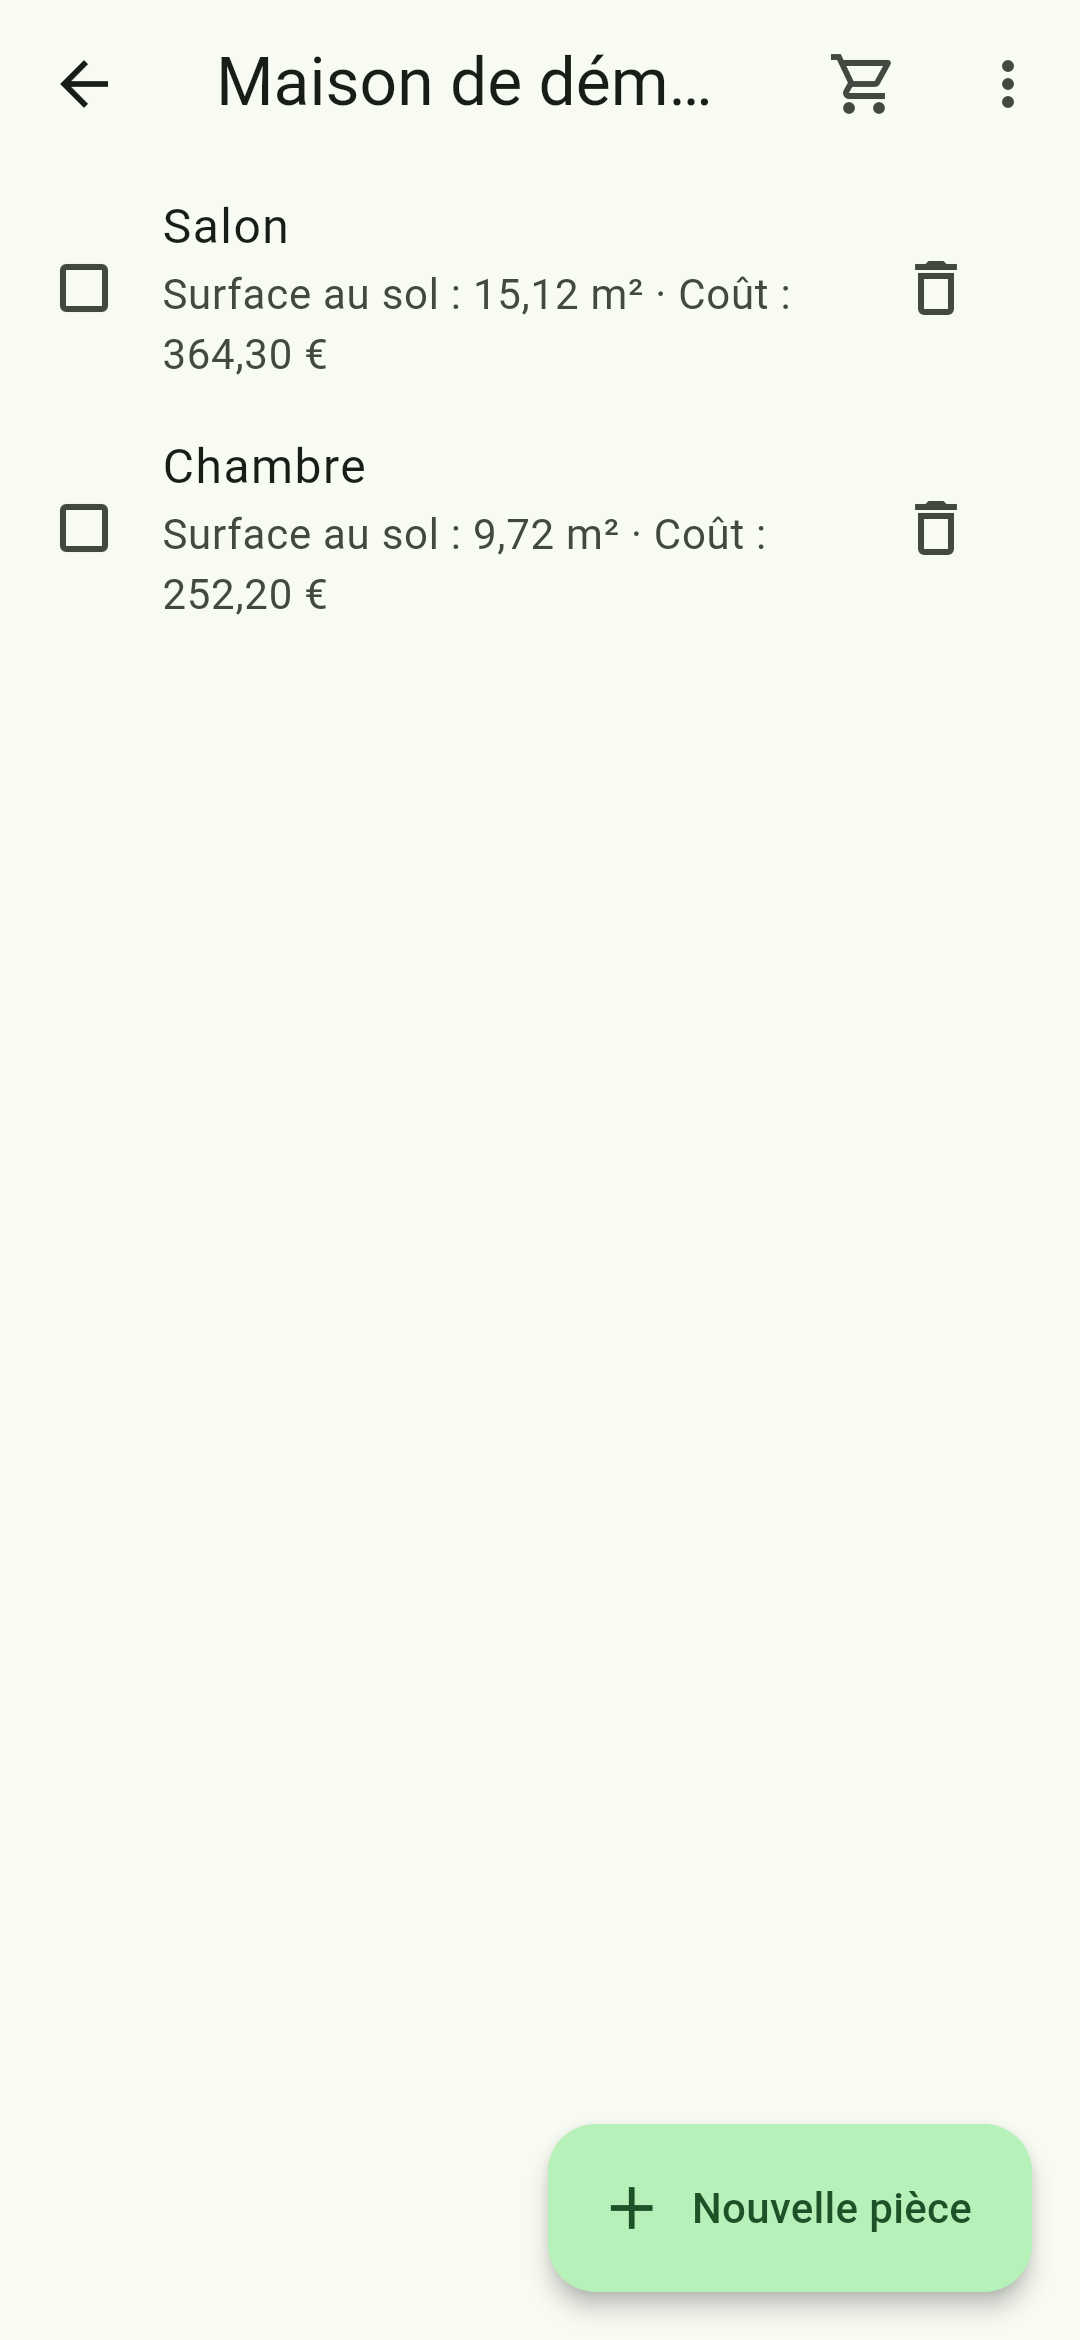
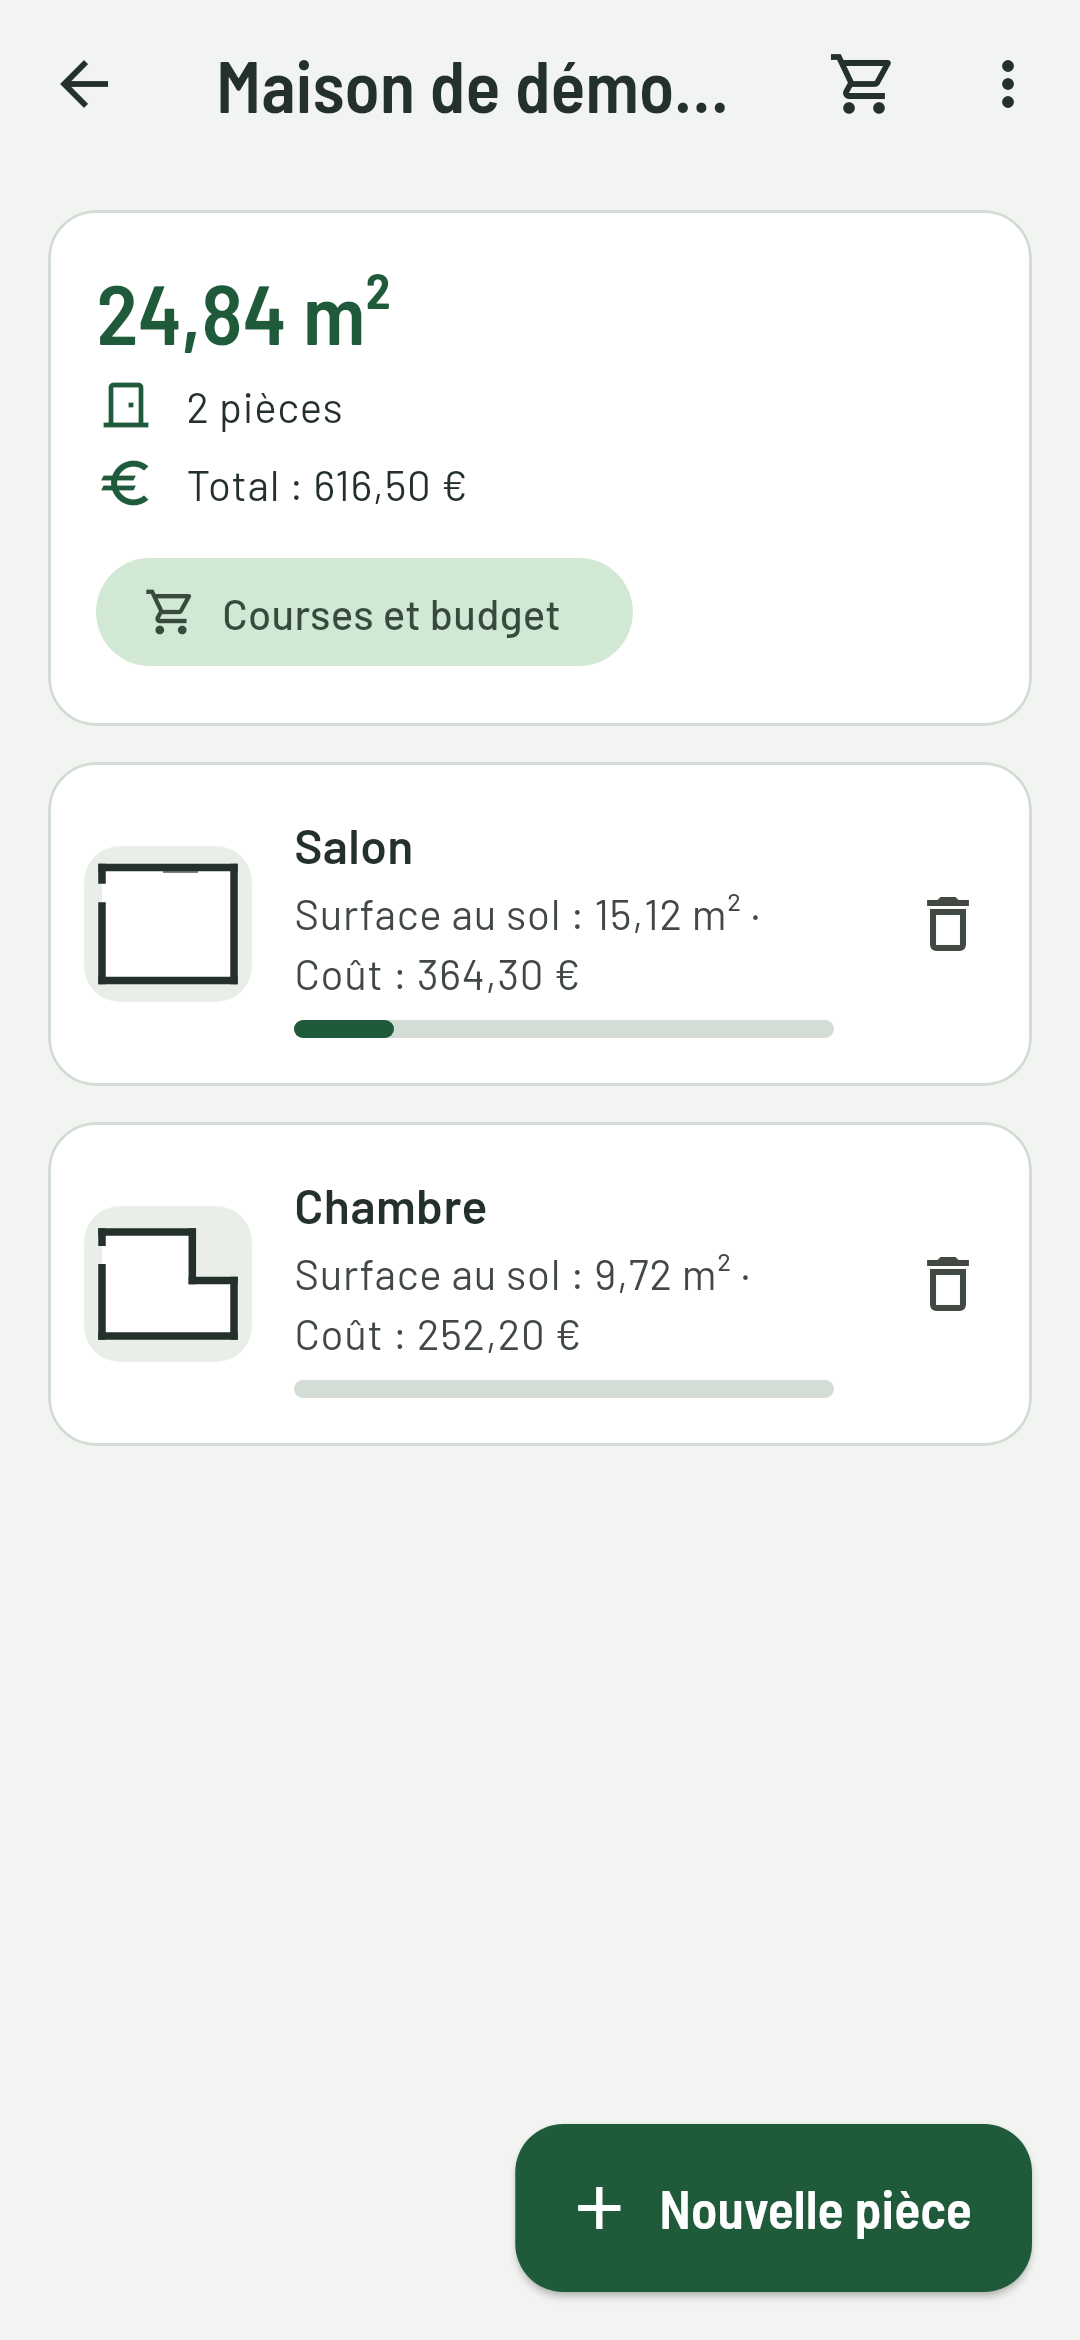
docs : captures de l'habillage, feuille de route des idées

diff --git a/ROADMAP.md b/ROADMAP.md
@@ -1,0 +1,31 @@
+# Feuille de route
+
+Idées notées au fil de l'eau, à cadrer avant chaque lot. L'ordre n'est pas figé.
+
+## Prochains lots
+
+- **Reprises** : liste des choses à faire ou à reprendre, pièce par pièce, avec plusieurs passages à cocher (trois couches de peinture, quatre passes d'enduit), un repère sur le plan pour savoir où est la reprise, et une photo.
+- **Peinture** : hauteur sous plafond par pièce, fenêtres (largeur, hauteur, allège), murs, plafond et boiseries, couches et rendement, sous-couche, pot le moins cher, fournitures.
+
+## Organisation et motivation
+
+- Objectif du jour, SMART : précis, mesurable (« poser les rangées 4 à 8 »), atteignable avec le temps et le matériel du jour, utile au chantier, daté.
+- Badges quand une pièce ou une étape est finie.
+- Pièces et outils à commander ; ce qui est faisable avec le matériel déjà là.
+- Aide à la décision : comparer deux façons de faire (coller ou clouer, flottant ou collé).
+
+## Conseils et tutos
+
+- Finition des plinthes : joint acrylique ou PU, collage, clouage.
+- Jonction entre deux pièces : barre de seuil, changement de sol.
+- Pose d'un joint de porte, réparation d'une climatisation.
+- Murs pas droits : mesurer l'angle réel d'un coin (méthode des trois mesures), adapter la coupe des plinthes, reprendre un mur pas plan.
+- Toujours prévoir de la marge (erreurs de coupe, lame abîmée) : la rendre visible et la conseiller selon l'expérience.
+
+## Plus tard
+
+- Nouveaux travaux : carrelage et faïence, placo et isolation, électricité, plomberie, terrasse, soudure (selon le procédé), jardin, fabrication d'étagères, aide à la déco.
+- Contrôle de finition : filmer une pièce et repérer ce qui est à reprendre.
+- Caméra thermique : repérer ponts thermiques et fuites d'air, en tirer des préconisations.
+- Mesure par photo ou réalité augmentée.
+- Mesures réutilisables par d'autres applications (domotique) : format d'export documenté, et vue 3D de la maison.

diff --git a/README.md b/README.md
@@ -24,6 +24,11 @@ Captures faites sur un chantier fictif par le workflow Captures (`test/captures/
 | 5 | Plinthes : optimisation des barres | fait |
 | 6 | Chantier de plusieurs pièces, budget, liste de courses, PDF | fait |
 | 7 | Guidage pas à pas, export, finitions | fait |
+| 8 | Version 0.1.0, APK jointes aux releases | fait |
+| 9 | Captures d'écran | fait |
+| 10 | Habillage et prise en main | fait |
+
+La suite est dans [ROADMAP.md](ROADMAP.md).
 
 ## Installer
 
